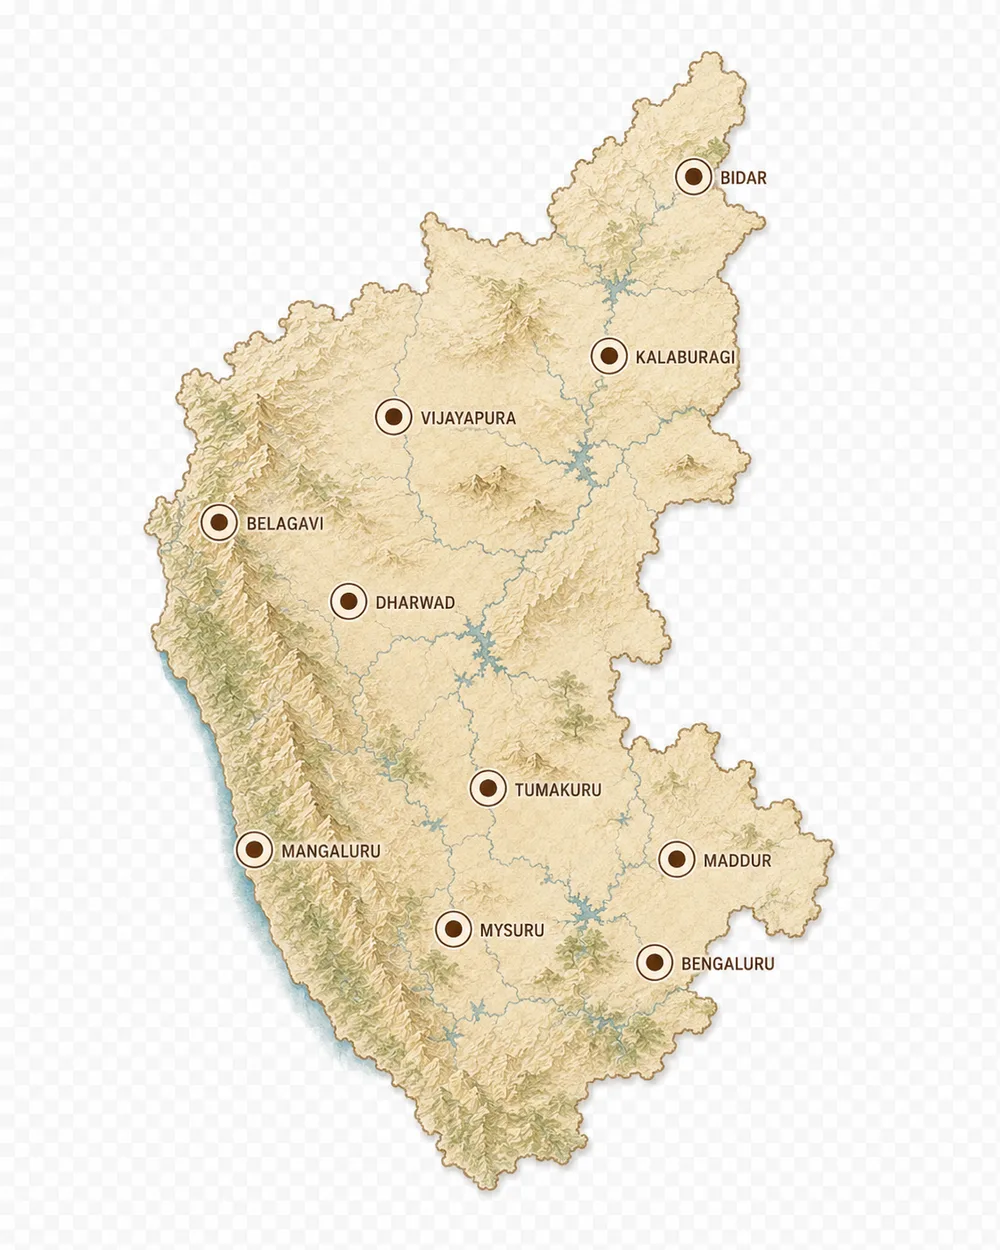
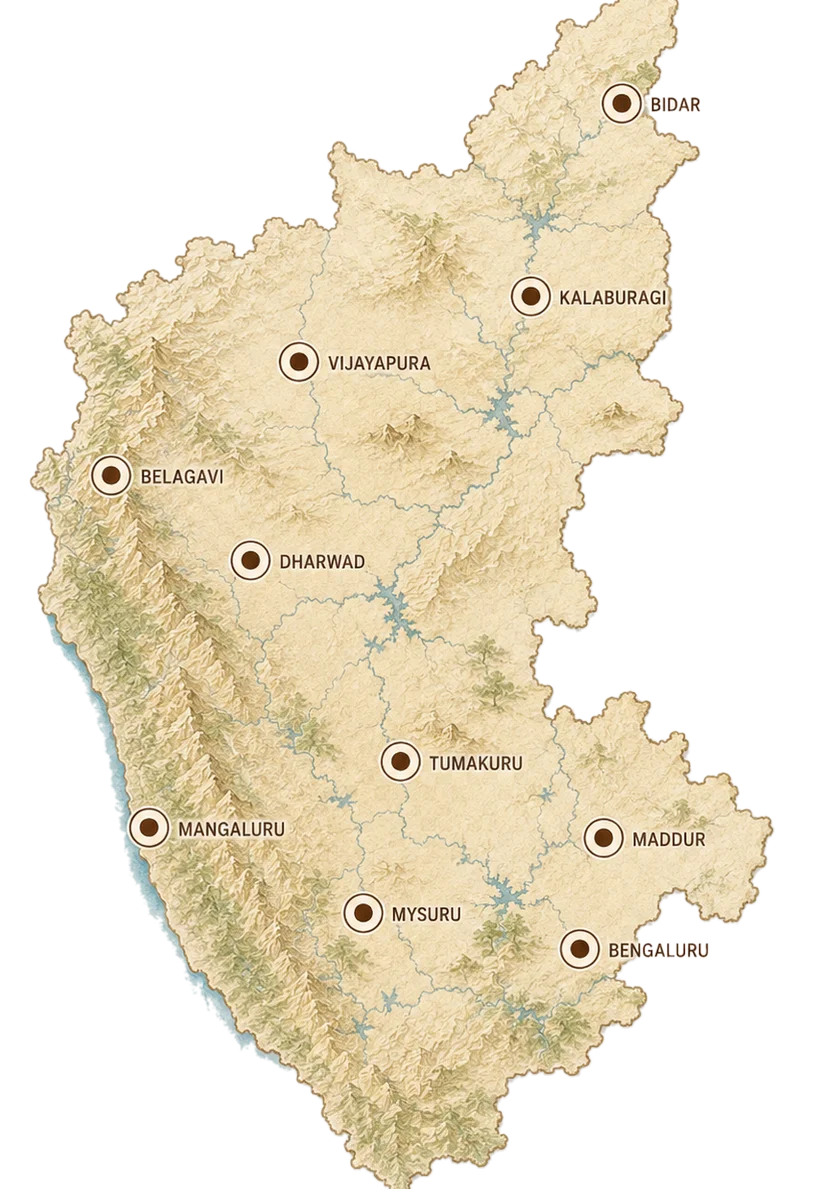
Trim map padding, fill the frame and add click to close on the map

diff --git a/src/app/v20.css b/src/app/v20.css
@@ -1,6 +1,6 @@
-:root{--v20-paper:#fbf4e4;--v20-ink:#06233d;--v20-gold:#efa927;--v20-red:#812b1d;--v20-kraft:#ead9b3}.v20-home{overflow:hidden;background:var(--v20-paper);color:var(--v20-ink)}.v20-home h1,.v20-home h2,.v20-home h3{font-family:var(--serif);font-weight:400}.v20-home em{font-style:normal;color:var(--v20-red)}.v20-section{padding:72px max(5vw,24px)}.v20-kicker{font-family:var(--mono);font-size:11px;font-weight:700;letter-spacing:.15em}.v20-button{display:inline-flex;align-items:center;justify-content:center;gap:20px;padding:15px 20px;border-radius:3px;background:var(--v20-ink);color:#fff!important;font-family:var(--mono);font-size:11px;font-weight:700;text-transform:uppercase;text-decoration:none;box-shadow:4px 4px 0 #d49a2c}.v20-button.red{background:var(--v20-red)}.v20-button.gold{background:var(--v20-gold);color:var(--v20-ink)!important}.v20-hero{position:relative;min-height:calc(100svh - 100px);display:grid;grid-template-columns:39% 61%;align-items:center;padding:28px 4vw 50px;background:radial-gradient(circle at 70% 35%,#ffe0a1 0,transparent 35%),linear-gradient(110deg,#fff9ed,#f6e8c9)}.v20-hero-copy{z-index:2;padding-left:5vw}.v20-hero h1{margin:18px 0;font-size:clamp(58px,6.5vw,110px);line-height:.78;letter-spacing:-.04em}.v20-hero p{max-width:480px;font-size:17px;line-height:1.7}.v20-actions{display:flex;align-items:center;gap:26px;margin-top:28px}.v20-actions>a:last-child{color:var(--v20-ink);font-weight:700}.v20-hero-art{position:relative;height:min(72vh,720px);display:grid;place-items:center}.v20-hero-paper{position:absolute;width:115%;height:115%;object-fit:cover;mix-blend-mode:multiply;opacity:.62}.v20-cart{position:relative;width:min(72%,650px);filter:drop-shadow(0 22px 22px #4b2a102f);transition:transform .5s}.v20-hero-art:hover .v20-cart{transform:translateY(-8px) rotate(-1deg)}.v20-seal{position:absolute;right:10%;top:16%;width:104px;height:104px;border:2px dashed var(--v20-red);border-radius:50%;display:grid;place-content:center;text-align:center;font-family:var(--kannada);font-size:13px;transform:rotate(8deg);background:#fff4d999}.v20-scroll{position:absolute;bottom:18px;left:50%;font-family:var(--mono);font-size:10px;letter-spacing:.1em;color:inherit}.v20-heading{display:flex;align-items:end;justify-content:space-between;gap:30px;margin-bottom:34px}.v20-heading h2{font-size:clamp(45px,5vw,76px);line-height:.9;margin:10px 0 0}.v20-heading>a{color:inherit}.v20-heading>p{max-width:300px}.v20-shelf{display:grid;grid-auto-flow:column;grid-auto-columns:minmax(235px,1fr);gap:18px;overflow-x:auto;scroll-snap-type:x mandatory;padding:12px 4px 26px}.v20-shelf>.product-card{scroll-snap-align:start;background:#fffaf0;padding:9px 9px 15px;box-shadow:0 12px 20px #4f34100f;transform:rotate(var(--card-tilt,-.4deg));transition:.25s}.v20-shelf>.product-card:nth-child(even){--card-tilt:.55deg}.v20-shelf>.product-card:hover{transform:translateY(-7px) rotate(-.7deg);box-shadow:0 17px 24px #efa92730}.v20-shelf .product-img{border-radius:2px}.v20-shelf .product-card h3{font-size:28px;line-height:1}.v20-proof{display:grid;grid-template-columns:1fr 1.1fr;align-items:center;gap:7vw;background:#f1dfb7}.v20-proof h2{font-size:clamp(48px,6vw,86px);line-height:.84;margin:18px 0}.v20-proof p{max-width:500px;line-height:1.7;margin-bottom:30px}.v20-torn-photo{position:relative;margin:0;padding:16px;background:#fffaf0;clip-path:polygon(2% 4%,98% 1%,96% 96%,3% 99%,0 72%,2% 45%,0 18%);transform:rotate(1deg);box-shadow:8px 12px 0 #d09a3344}.v20-torn-photo img{width:100%;height:390px;object-fit:cover;filter:saturate(.75) sepia(.12)}.v20-torn-photo figcaption{padding:9px;font-family:var(--mono);font-size:10px}.v20-map-section{background:var(--v20-ink);color:#fff}.v20-heading.light em{color:var(--v20-gold)}.v20-map-wrap{position:relative;max-width:460px;margin:0 auto}.v20-map-stage{position:relative;overflow:hidden;border-radius:22px;aspect-ratio:1122/1402;border:1px solid #edaa3638;background:radial-gradient(circle,#173b56,#06233d 68%);box-shadow:0 20px 40px #00000040}.v20-map-layer{position:absolute;inset:0;transition:transform .7s cubic-bezier(.4,0,.2,1)}.v20-map-layer.zoomed{transform:scale(2.1)}.v20-map-img{position:absolute;inset:0;width:100%;height:100%;object-fit:contain;pointer-events:none;filter:drop-shadow(0 15px 16px #0006)}.v20-pins{position:absolute;inset:0}.v20-pins[aria-hidden=true]{pointer-events:none}.v20-pin-btn{position:absolute;transform:translate(-50%,-50%);width:38px;height:38px;border:0;border-radius:50%;background:transparent;padding:0;cursor:pointer;-webkit-tap-highlight-color:transparent}.v20-pin-btn:focus-visible{outline:2px solid #ffe3a6;outline-offset:3px}.v20-spill-close:focus-visible{outline:2px solid var(--v20-gold);outline-offset:2px}.v20-pin-ring,.v20-pin-core{position:absolute;inset:0;border-radius:50%}.v20-pin-ring{animation:v20-pin-breathe 2.8s ease-in-out infinite}.v20-pin-btn:hover .v20-pin-ring,.v20-pin-btn:focus-visible .v20-pin-ring,.v20-pin-btn.active .v20-pin-ring{animation:v20-pin-glow 1s ease-in-out infinite}.v20-pin-btn.active .v20-pin-core{animation:v20-pin-pop .4s ease}.v20-map-hint{margin:16px 0 0;text-align:center;font-family:var(--mono);font-size:11px;letter-spacing:.08em;opacity:.7}.v20-spill{position:absolute;z-index:1;inset:5% 4%;display:flex;flex-direction:column;padding:26px 22px 22px;color:#392613;background:#f6e6bd;clip-path:polygon(2% 0%,32% 2%,58% 0%,80% 2%,98% 0%,100% 16%,97% 34%,100% 52%,96% 70%,100% 88%,98% 100%,74% 98%,50% 100%,26% 98%,2% 100%,0% 82%,3% 64%,0% 46%,3% 26%,0% 10%);box-shadow:0 25px 55px #00000055;animation:v20-spill-in .45s cubic-bezier(.2,.8,.3,1.2) both;overflow:auto}.v20-spill-close{position:absolute;z-index:3;top:0;right:2%;width:32px;height:32px;border-radius:50%;border:2px solid #392613;background:#fff8e8;color:#392613;font-size:18px;line-height:1;cursor:pointer;display:grid;place-items:center;box-shadow:0 6px 14px #0000004d}.v20-spill img{width:100%;height:120px;object-fit:cover;margin-bottom:14px;border:6px solid #fff8e8;transform:rotate(-1deg);filter:sepia(.15) saturate(.75)}.v20-spill h3{font-family:var(--serif),serif;font-size:clamp(30px,7vw,40px);line-height:.9;margin:0 0 8px}.v20-spill p{line-height:1.55;font-size:14px;margin-bottom:10px}.v20-spill b{display:block;font-family:var(--mono);font-size:11px;margin-bottom:16px;color:#6d3a17}.v20-spill a{margin-top:auto;color:var(--v20-red);font-weight:700;font-family:var(--mono);font-size:11px;text-decoration:none}.v20-spill .v20-stamp{left:14px;top:14px;right:auto}.v20-stamp{position:absolute;z-index:2;padding:8px;border:2px solid var(--v20-red);color:var(--v20-red);font-family:var(--mono);font-size:12px;background:#f6e6bd;transform:rotate(7deg)}.v20-tabs{display:flex;gap:8px;overflow:auto;margin-bottom:25px}.v20-tabs button{white-space:nowrap;border:1px solid #d6bf93;background:#fff8e9;padding:11px 17px;border-radius:99px;color:var(--v20-ink);font-family:var(--kannada),var(--mono);cursor:pointer}.v20-tabs button.active{background:var(--v20-gold);box-shadow:0 0 20px #efa92766}.v20-story{display:grid;grid-template-columns:.75fr 1.25fr;gap:6vw;background:var(--v20-ink);color:#fff;align-items:center}.v20-story h2{font-size:clamp(52px,6vw,84px);line-height:.85}.v20-story h2 em{color:var(--v20-gold)}.v20-story p{line-height:1.7;max-width:430px;margin-bottom:30px}.v20-story-collage{display:grid;grid-template-columns:1.1fr .9fr;grid-template-rows:240px 240px;gap:12px}.v20-story-collage img{width:100%;height:100%;object-fit:cover;border:8px solid #f9edcf;transition:.3s}.v20-story-collage img:first-child{grid-row:1/3;transform:rotate(-1deg)}.v20-story-collage img:nth-child(2){transform:rotate(1.5deg)}.v20-story-collage img:nth-child(3){transform:rotate(-1deg)}.v20-story-collage img:hover{transform:scale(1.025) rotate(.5deg)}
+:root{--v20-paper:#fbf4e4;--v20-ink:#06233d;--v20-gold:#efa927;--v20-red:#812b1d;--v20-kraft:#ead9b3}.v20-home{overflow:hidden;background:var(--v20-paper);color:var(--v20-ink)}.v20-home h1,.v20-home h2,.v20-home h3{font-family:var(--serif);font-weight:400}.v20-home em{font-style:normal;color:var(--v20-red)}.v20-section{padding:72px max(5vw,24px)}.v20-kicker{font-family:var(--mono);font-size:11px;font-weight:700;letter-spacing:.15em}.v20-button{display:inline-flex;align-items:center;justify-content:center;gap:20px;padding:15px 20px;border-radius:3px;background:var(--v20-ink);color:#fff!important;font-family:var(--mono);font-size:11px;font-weight:700;text-transform:uppercase;text-decoration:none;box-shadow:4px 4px 0 #d49a2c}.v20-button.red{background:var(--v20-red)}.v20-button.gold{background:var(--v20-gold);color:var(--v20-ink)!important}.v20-hero{position:relative;min-height:calc(100svh - 100px);display:grid;grid-template-columns:39% 61%;align-items:center;padding:28px 4vw 50px;background:radial-gradient(circle at 70% 35%,#ffe0a1 0,transparent 35%),linear-gradient(110deg,#fff9ed,#f6e8c9)}.v20-hero-copy{z-index:2;padding-left:5vw}.v20-hero h1{margin:18px 0;font-size:clamp(58px,6.5vw,110px);line-height:.78;letter-spacing:-.04em}.v20-hero p{max-width:480px;font-size:17px;line-height:1.7}.v20-actions{display:flex;align-items:center;gap:26px;margin-top:28px}.v20-actions>a:last-child{color:var(--v20-ink);font-weight:700}.v20-hero-art{position:relative;height:min(72vh,720px);display:grid;place-items:center}.v20-hero-paper{position:absolute;width:115%;height:115%;object-fit:cover;mix-blend-mode:multiply;opacity:.62}.v20-cart{position:relative;width:min(72%,650px);filter:drop-shadow(0 22px 22px #4b2a102f);transition:transform .5s}.v20-hero-art:hover .v20-cart{transform:translateY(-8px) rotate(-1deg)}.v20-seal{position:absolute;right:10%;top:16%;width:104px;height:104px;border:2px dashed var(--v20-red);border-radius:50%;display:grid;place-content:center;text-align:center;font-family:var(--kannada);font-size:13px;transform:rotate(8deg);background:#fff4d999}.v20-scroll{position:absolute;bottom:18px;left:50%;font-family:var(--mono);font-size:10px;letter-spacing:.1em;color:inherit}.v20-heading{display:flex;align-items:end;justify-content:space-between;gap:30px;margin-bottom:34px}.v20-heading h2{font-size:clamp(45px,5vw,76px);line-height:.9;margin:10px 0 0}.v20-heading>a{color:inherit}.v20-heading>p{max-width:300px}.v20-shelf{display:grid;grid-auto-flow:column;grid-auto-columns:minmax(235px,1fr);gap:18px;overflow-x:auto;scroll-snap-type:x mandatory;padding:12px 4px 26px}.v20-shelf>.product-card{scroll-snap-align:start;background:#fffaf0;padding:9px 9px 15px;box-shadow:0 12px 20px #4f34100f;transform:rotate(var(--card-tilt,-.4deg));transition:.25s}.v20-shelf>.product-card:nth-child(even){--card-tilt:.55deg}.v20-shelf>.product-card:hover{transform:translateY(-7px) rotate(-.7deg);box-shadow:0 17px 24px #efa92730}.v20-shelf .product-img{border-radius:2px}.v20-shelf .product-card h3{font-size:28px;line-height:1}.v20-proof{display:grid;grid-template-columns:1fr 1.1fr;align-items:center;gap:7vw;background:#f1dfb7}.v20-proof h2{font-size:clamp(48px,6vw,86px);line-height:.84;margin:18px 0}.v20-proof p{max-width:500px;line-height:1.7;margin-bottom:30px}.v20-torn-photo{position:relative;margin:0;padding:16px;background:#fffaf0;clip-path:polygon(2% 4%,98% 1%,96% 96%,3% 99%,0 72%,2% 45%,0 18%);transform:rotate(1deg);box-shadow:8px 12px 0 #d09a3344}.v20-torn-photo img{width:100%;height:390px;object-fit:cover;filter:saturate(.75) sepia(.12)}.v20-torn-photo figcaption{padding:9px;font-family:var(--mono);font-size:10px}.v20-map-section{background:var(--v20-ink);color:#fff;padding-top:56px;padding-bottom:56px}.v20-heading.light em{color:var(--v20-gold)}.v20-map-wrap{position:relative;max-width:400px;margin:0 auto}.v20-map-stage{position:relative;overflow:hidden;border-radius:22px;aspect-ratio:855/1240;border:1px solid #edaa3638;background:radial-gradient(circle,#173b56,#06233d 68%);box-shadow:0 20px 40px #00000040}.v20-map-layer{position:absolute;inset:0;transition:transform .7s cubic-bezier(.4,0,.2,1)}.v20-map-layer.zoomed{transform:scale(1.7)}.v20-map-img{position:absolute;inset:0;width:100%;height:100%;object-fit:contain;pointer-events:none;filter:drop-shadow(0 15px 16px #0006)}.v20-pins{position:absolute;inset:0}.v20-pins[aria-hidden=true]{pointer-events:none}.v20-pin-btn{position:absolute;transform:translate(-50%,-50%);width:38px;height:38px;border:0;border-radius:50%;background:transparent;padding:0;cursor:pointer;-webkit-tap-highlight-color:transparent}.v20-pin-btn:focus-visible{outline:2px solid #ffe3a6;outline-offset:3px}.v20-spill-close:focus-visible{outline:2px solid var(--v20-gold);outline-offset:2px}.v20-pin-ring,.v20-pin-core{position:absolute;inset:0;border-radius:50%}.v20-pin-ring{animation:v20-pin-breathe 2.8s ease-in-out infinite}.v20-pin-btn:hover .v20-pin-ring,.v20-pin-btn:focus-visible .v20-pin-ring,.v20-pin-btn.active .v20-pin-ring{animation:v20-pin-glow 1s ease-in-out infinite}.v20-pin-btn.active .v20-pin-core{animation:v20-pin-pop .4s ease}.v20-map-hint{margin:12px 0 0;text-align:center;font-family:var(--mono);font-size:11px;letter-spacing:.08em;opacity:.7}.v20-map-section .v20-heading{margin-bottom:24px}.v20-spill{position:absolute;z-index:1;inset:9% 7%;display:flex;flex-direction:column;padding:24px 20px 20px;color:#392613;background:#f6e6bd;clip-path:polygon(2% 0%,32% 2%,58% 0%,80% 2%,98% 0%,100% 16%,97% 34%,100% 52%,96% 70%,100% 88%,98% 100%,74% 98%,50% 100%,26% 98%,2% 100%,0% 82%,3% 64%,0% 46%,3% 26%,0% 10%);box-shadow:0 25px 55px #00000055;animation:v20-spill-in .45s cubic-bezier(.2,.8,.3,1.2) both;overflow:auto}.v20-spill-close{position:absolute;z-index:3;top:0;right:2%;width:32px;height:32px;border-radius:50%;border:2px solid #392613;background:#fff8e8;color:#392613;font-size:18px;line-height:1;cursor:pointer;display:grid;place-items:center;box-shadow:0 6px 14px #0000004d}.v20-spill img{width:100%;height:120px;object-fit:cover;margin-bottom:14px;border:6px solid #fff8e8;transform:rotate(-1deg);filter:sepia(.15) saturate(.75)}.v20-spill h3{font-family:var(--serif),serif;font-size:clamp(30px,7vw,40px);line-height:.9;margin:0 0 8px}.v20-spill p{line-height:1.55;font-size:14px;margin-bottom:10px}.v20-spill b{display:block;font-family:var(--mono);font-size:11px;margin-bottom:16px;color:#6d3a17}.v20-spill a{margin-top:auto;color:var(--v20-red);font-weight:700;font-family:var(--mono);font-size:11px;text-decoration:none}.v20-spill .v20-stamp{left:14px;top:14px;right:auto}.v20-stamp{position:absolute;z-index:2;padding:8px;border:2px solid var(--v20-red);color:var(--v20-red);font-family:var(--mono);font-size:12px;background:#f6e6bd;transform:rotate(7deg)}.v20-tabs{display:flex;gap:8px;overflow:auto;margin-bottom:25px}.v20-tabs button{white-space:nowrap;border:1px solid #d6bf93;background:#fff8e9;padding:11px 17px;border-radius:99px;color:var(--v20-ink);font-family:var(--kannada),var(--mono);cursor:pointer}.v20-tabs button.active{background:var(--v20-gold);box-shadow:0 0 20px #efa92766}.v20-story{display:grid;grid-template-columns:.75fr 1.25fr;gap:6vw;background:var(--v20-ink);color:#fff;align-items:center}.v20-story h2{font-size:clamp(52px,6vw,84px);line-height:.85}.v20-story h2 em{color:var(--v20-gold)}.v20-story p{line-height:1.7;max-width:430px;margin-bottom:30px}.v20-story-collage{display:grid;grid-template-columns:1.1fr .9fr;grid-template-rows:240px 240px;gap:12px}.v20-story-collage img{width:100%;height:100%;object-fit:cover;border:8px solid #f9edcf;transition:.3s}.v20-story-collage img:first-child{grid-row:1/3;transform:rotate(-1deg)}.v20-story-collage img:nth-child(2){transform:rotate(1.5deg)}.v20-story-collage img:nth-child(3){transform:rotate(-1deg)}.v20-story-collage img:hover{transform:scale(1.025) rotate(.5deg)}
 @keyframes v20-pin-breathe{0%{box-shadow:0 0 0 0 #efa92766}70%{box-shadow:0 0 0 10px #efa92700}100%{box-shadow:0 0 0 0 #efa92700}}@keyframes v20-pin-glow{0%{box-shadow:0 0 0 0 #ffd770cc}70%{box-shadow:0 0 0 16px #ffd77000}100%{box-shadow:0 0 0 0 #ffd77000}}@keyframes v20-pin-pop{0%{transform:scale(.6)}60%{transform:scale(1.3)}100%{transform:scale(1)}}@keyframes v20-spill-in{from{opacity:0;transform:scale(.55) rotate(-3deg)}to{opacity:1;transform:scale(1) rotate(0)}}
-@media(max-width:700px){.v20-section{padding:52px 18px}.v20-hero{min-height:calc(100svh - 78px);display:flex;flex-direction:column;padding:20px 18px 48px}.v20-hero-copy{padding:8px 0 0;width:100%}.v20-hero h1{font-size:58px;line-height:.78;margin:15px 0}.v20-hero p{font-size:14px;line-height:1.5;max-width:340px}.v20-actions{margin-top:18px;gap:16px}.v20-actions>a:last-child{font-size:12px}.v20-button{padding:13px 15px}.v20-hero-art{height:43svh;width:115%;margin-top:-4px}.v20-hero-paper{width:112%;height:112%}.v20-cart{width:73%}.v20-seal{right:9%;top:8%;width:72px;height:72px;font-size:10px}.v20-scroll{left:18px;bottom:13px}.v20-heading{align-items:start;margin-bottom:22px}.v20-heading h2{font-size:44px}.v20-heading>p{display:none}.v20-heading>a{font-size:12px}.v20-shelf{margin-right:-18px;grid-auto-columns:72vw;gap:12px}.v20-shelf .product-card h3{font-size:25px}.v20-proof{grid-template-columns:1fr;padding-top:58px}.v20-proof h2{font-size:50px}.v20-proof-copy{order:1}.v20-torn-photo{order:2}.v20-torn-photo img{height:260px}.v20-map-section{padding-left:14px;padding-right:14px}.v20-map-wrap{max-width:340px}.v20-pin-btn{width:44px;height:44px}.v20-spill{padding:20px 18px 18px}.v20-spill h3{font-size:32px}.v20-spill img{height:100px}.v20-map-hint{font-size:10px}.v20-tabs{margin-right:-18px;padding-right:18px}.v20-story{grid-template-columns:1fr}.v20-story h2{font-size:50px}.v20-story-collage{grid-template-rows:180px 180px}.v20-kicker{font-size:9px}.v20-quick{padding-top:58px}}
+@media(max-width:700px){.v20-section{padding:52px 18px}.v20-hero{min-height:calc(100svh - 78px);display:flex;flex-direction:column;padding:20px 18px 48px}.v20-hero-copy{padding:8px 0 0;width:100%}.v20-hero h1{font-size:58px;line-height:.78;margin:15px 0}.v20-hero p{font-size:14px;line-height:1.5;max-width:340px}.v20-actions{margin-top:18px;gap:16px}.v20-actions>a:last-child{font-size:12px}.v20-button{padding:13px 15px}.v20-hero-art{height:43svh;width:115%;margin-top:-4px}.v20-hero-paper{width:112%;height:112%}.v20-cart{width:73%}.v20-seal{right:9%;top:8%;width:72px;height:72px;font-size:10px}.v20-scroll{left:18px;bottom:13px}.v20-heading{align-items:start;margin-bottom:22px}.v20-heading h2{font-size:44px}.v20-heading>p{display:none}.v20-heading>a{font-size:12px}.v20-shelf{margin-right:-18px;grid-auto-columns:72vw;gap:12px}.v20-shelf .product-card h3{font-size:25px}.v20-proof{grid-template-columns:1fr;padding-top:58px}.v20-proof h2{font-size:50px}.v20-proof-copy{order:1}.v20-torn-photo{order:2}.v20-torn-photo img{height:260px}.v20-map-section{padding-left:14px;padding-right:14px}.v20-map-wrap{max-width:305px}.v20-pin-btn{width:44px;height:44px}.v20-spill{padding:18px 16px 16px}.v20-spill h3{font-size:30px}.v20-spill img{height:90px}.v20-map-hint{font-size:10px}.v20-tabs{margin-right:-18px;padding-right:18px}.v20-story{grid-template-columns:1fr}.v20-story h2{font-size:50px}.v20-story-collage{grid-template-rows:180px 180px}.v20-kicker{font-size:9px}.v20-quick{padding-top:58px}}
 @media(prefers-reduced-motion:reduce){.v20-home *{scroll-behavior:auto!important;animation-duration:.01ms!important;transition-duration:.01ms!important}}
 
 /* Shared scrapbook product frame: deliberately imperfect, never misaligned. */

diff --git a/src/data/places.ts b/src/data/places.ts
@@ -13,80 +13,80 @@ export const places: Place[] = [
   {
     slug: "bidar",
     name: "Bidar",
-    x: 69,
-    y: 14,
+    x: 75.3,
+    y: 8.6,
     blurb: "Deccan forts and a plains kitchen where grain and ghee do the talking.",
     regionSlug: "north-karnataka",
   },
   {
     slug: "kalaburagi",
     name: "Kalaburagi",
-    x: 61,
-    y: 27.5,
+    x: 64.9,
+    y: 23.8,
     blurb: "A dry, wide-open district with snacks built for long, busy days.",
     regionSlug: "north-karnataka",
   },
   {
     slug: "vijayapura",
     name: "Vijayapura",
-    x: 39,
-    y: 33,
+    x: 36,
+    y: 30.1,
     blurb: "Domes on the skyline, millets and jowar on the everyday table.",
     regionSlug: "north-karnataka",
   },
   {
     slug: "belagavi",
     name: "Belagavi",
-    x: 22,
-    y: 41,
+    x: 13.7,
+    y: 39.1,
     blurb: "A border town where three food cultures share one snack shelf.",
     regionSlug: "north-karnataka",
   },
   {
     slug: "dharwad",
     name: "Dharwad",
-    x: 34.5,
-    y: 48,
+    x: 30.1,
+    y: 47,
     blurb: "A university town known for keeping its sweet-and-savoury balance just right.",
     regionSlug: "north-karnataka",
   },
   {
     slug: "mangaluru",
     name: "Mangaluru",
-    x: 25,
-    y: 67.5,
+    x: 17.6,
+    y: 69.1,
     blurb: "Coconut, curry leaf and a coastline that shapes every tea-time bite.",
     regionSlug: "coastal-karnataka",
   },
   {
     slug: "tumakuru",
     name: "Tumakuru",
-    x: 49,
-    y: 62,
+    x: 49.1,
+    y: 62.8,
     blurb: "The quiet plains stop between the coast, the hills and the capital.",
     regionSlug: "greater-bengaluru",
   },
   {
     slug: "maddur",
     name: "Maddur",
-    x: 68,
-    y: 68.5,
+    x: 74,
+    y: 70.2,
     blurb: "The highway halt every Bengaluru–Mysuru traveller stops for, by habit.",
     regionSlug: "greater-bengaluru",
   },
   {
     slug: "mysuru",
     name: "Mysuru",
-    x: 45,
-    y: 72.5,
+    x: 43.9,
+    y: 74.7,
     blurb: "Palace-city memory sits beside home kitchens and busy market shelves.",
     regionSlug: "mysuru",
   },
   {
     slug: "bengaluru",
     name: "Bengaluru",
-    x: 66,
-    y: 75.5,
+    x: 71.4,
+    y: 78.1,
     blurb: "Where every regional thindi in Karnataka finally finds a shelf.",
     regionSlug: "greater-bengaluru",
   },

diff --git a/src/app/page.tsx b/src/app/page.tsx
@@ -39,7 +39,7 @@ export default function Home(){
 
     <section className="v20-map-section v20-section" id="places"><header className="v20-heading light"><div><span className="v20-kicker">A CARTOGRAPHY OF TASTE</span><h2>Tap Karnataka.<br/><em>Meet its thindi.</em></h2></div><p>Ten places. Ten ways into the shelf.</p></header>
       <div className="v20-map-wrap">
-        <div className="v20-map-stage">
+        <div className="v20-map-stage" onClick={()=>{if(active!==null)setActive(null)}} style={active!==null?{cursor:"pointer"}:undefined}>
           <div className={`v20-map-layer${activePlace?" zoomed":""}`} style={activePlace?{transformOrigin:`${activePlace.x}% ${activePlace.y}%`}:undefined}>
             <img className="v20-map-img" src={asset("/assets/karnataka-map.webp")} alt="Illustrated map of Karnataka marking Bidar, Kalaburagi, Vijayapura, Belagavi, Dharwad, Tumakuru, Mangaluru, Maddur, Mysuru and Bengaluru" loading="lazy" decoding="async"/>
             <div className="v20-pins" aria-hidden={activePlace?"true":"false"}>
